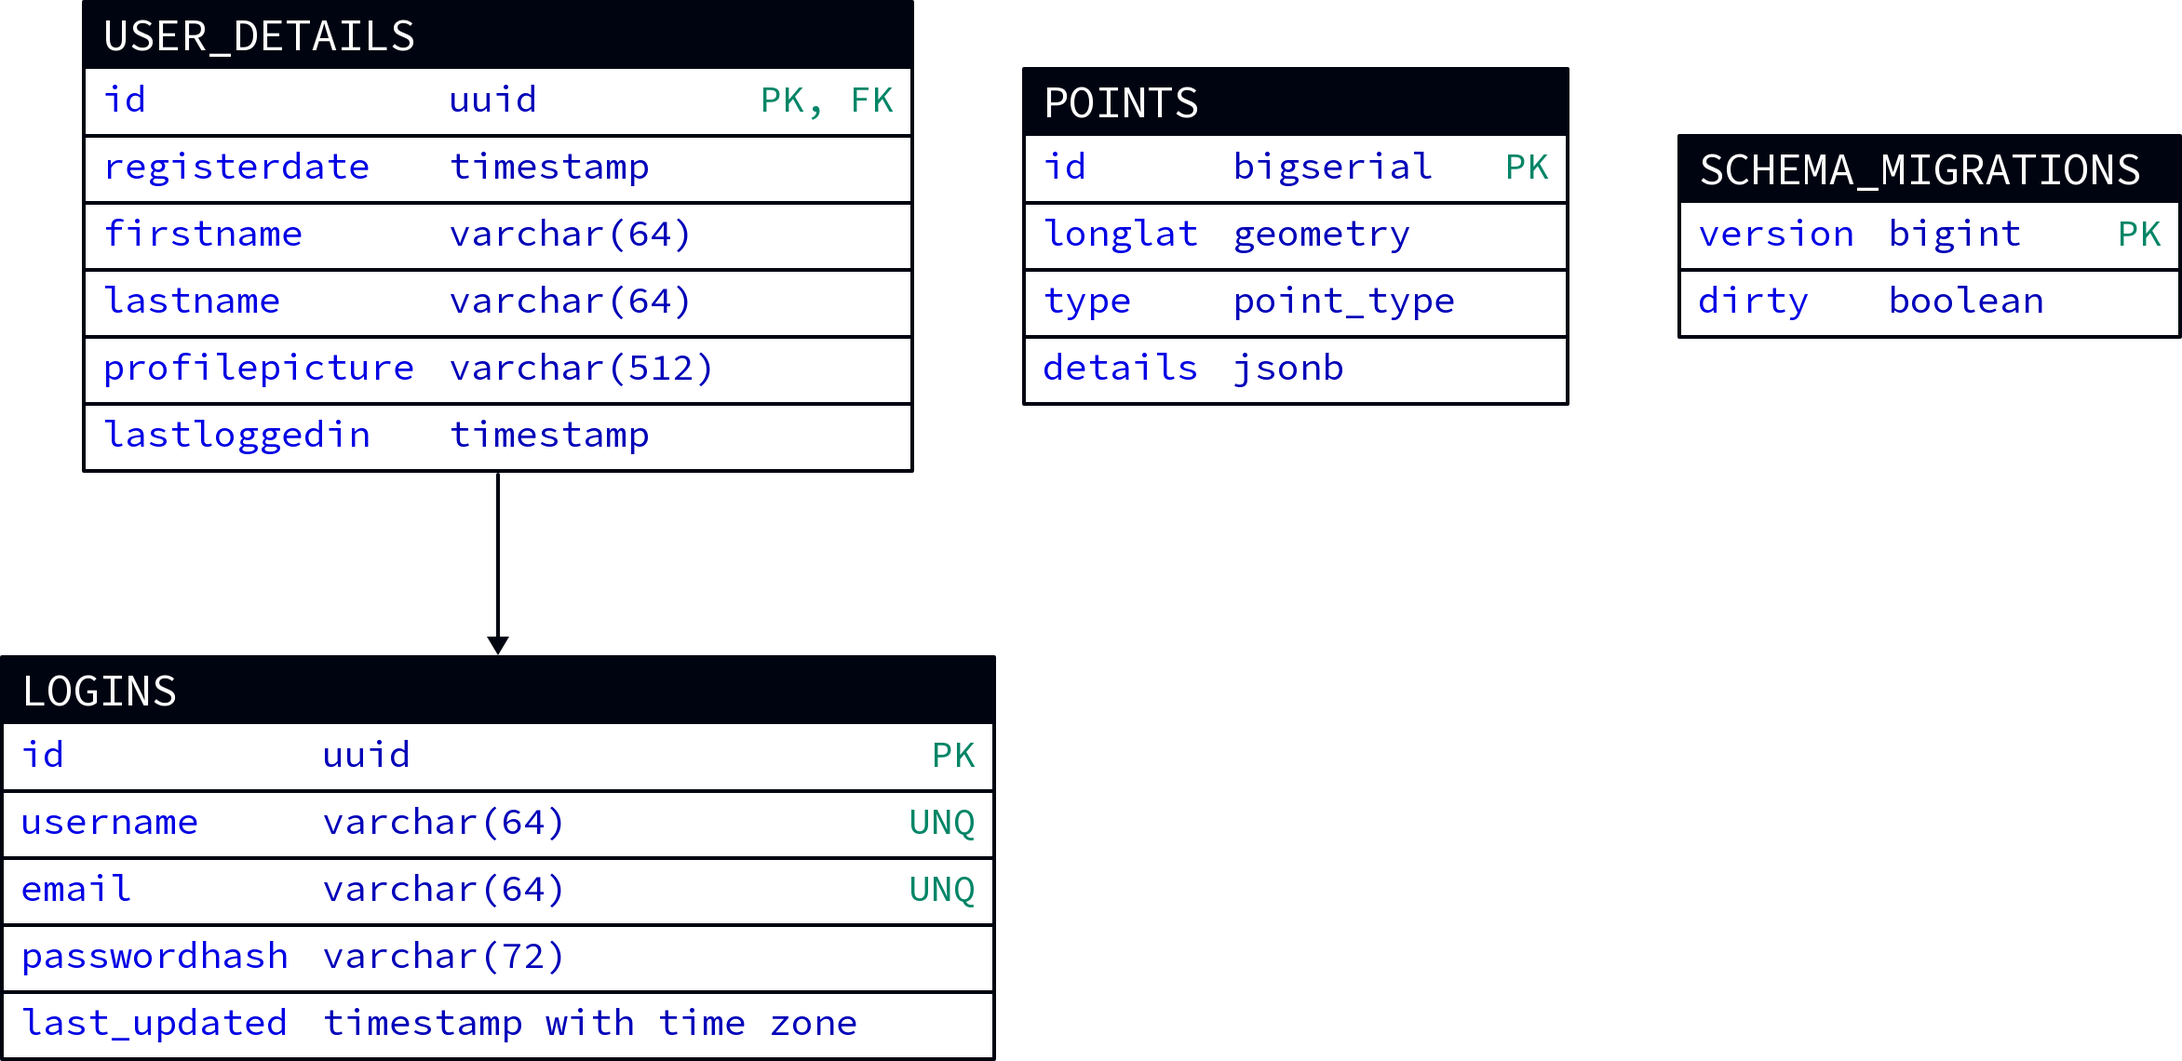
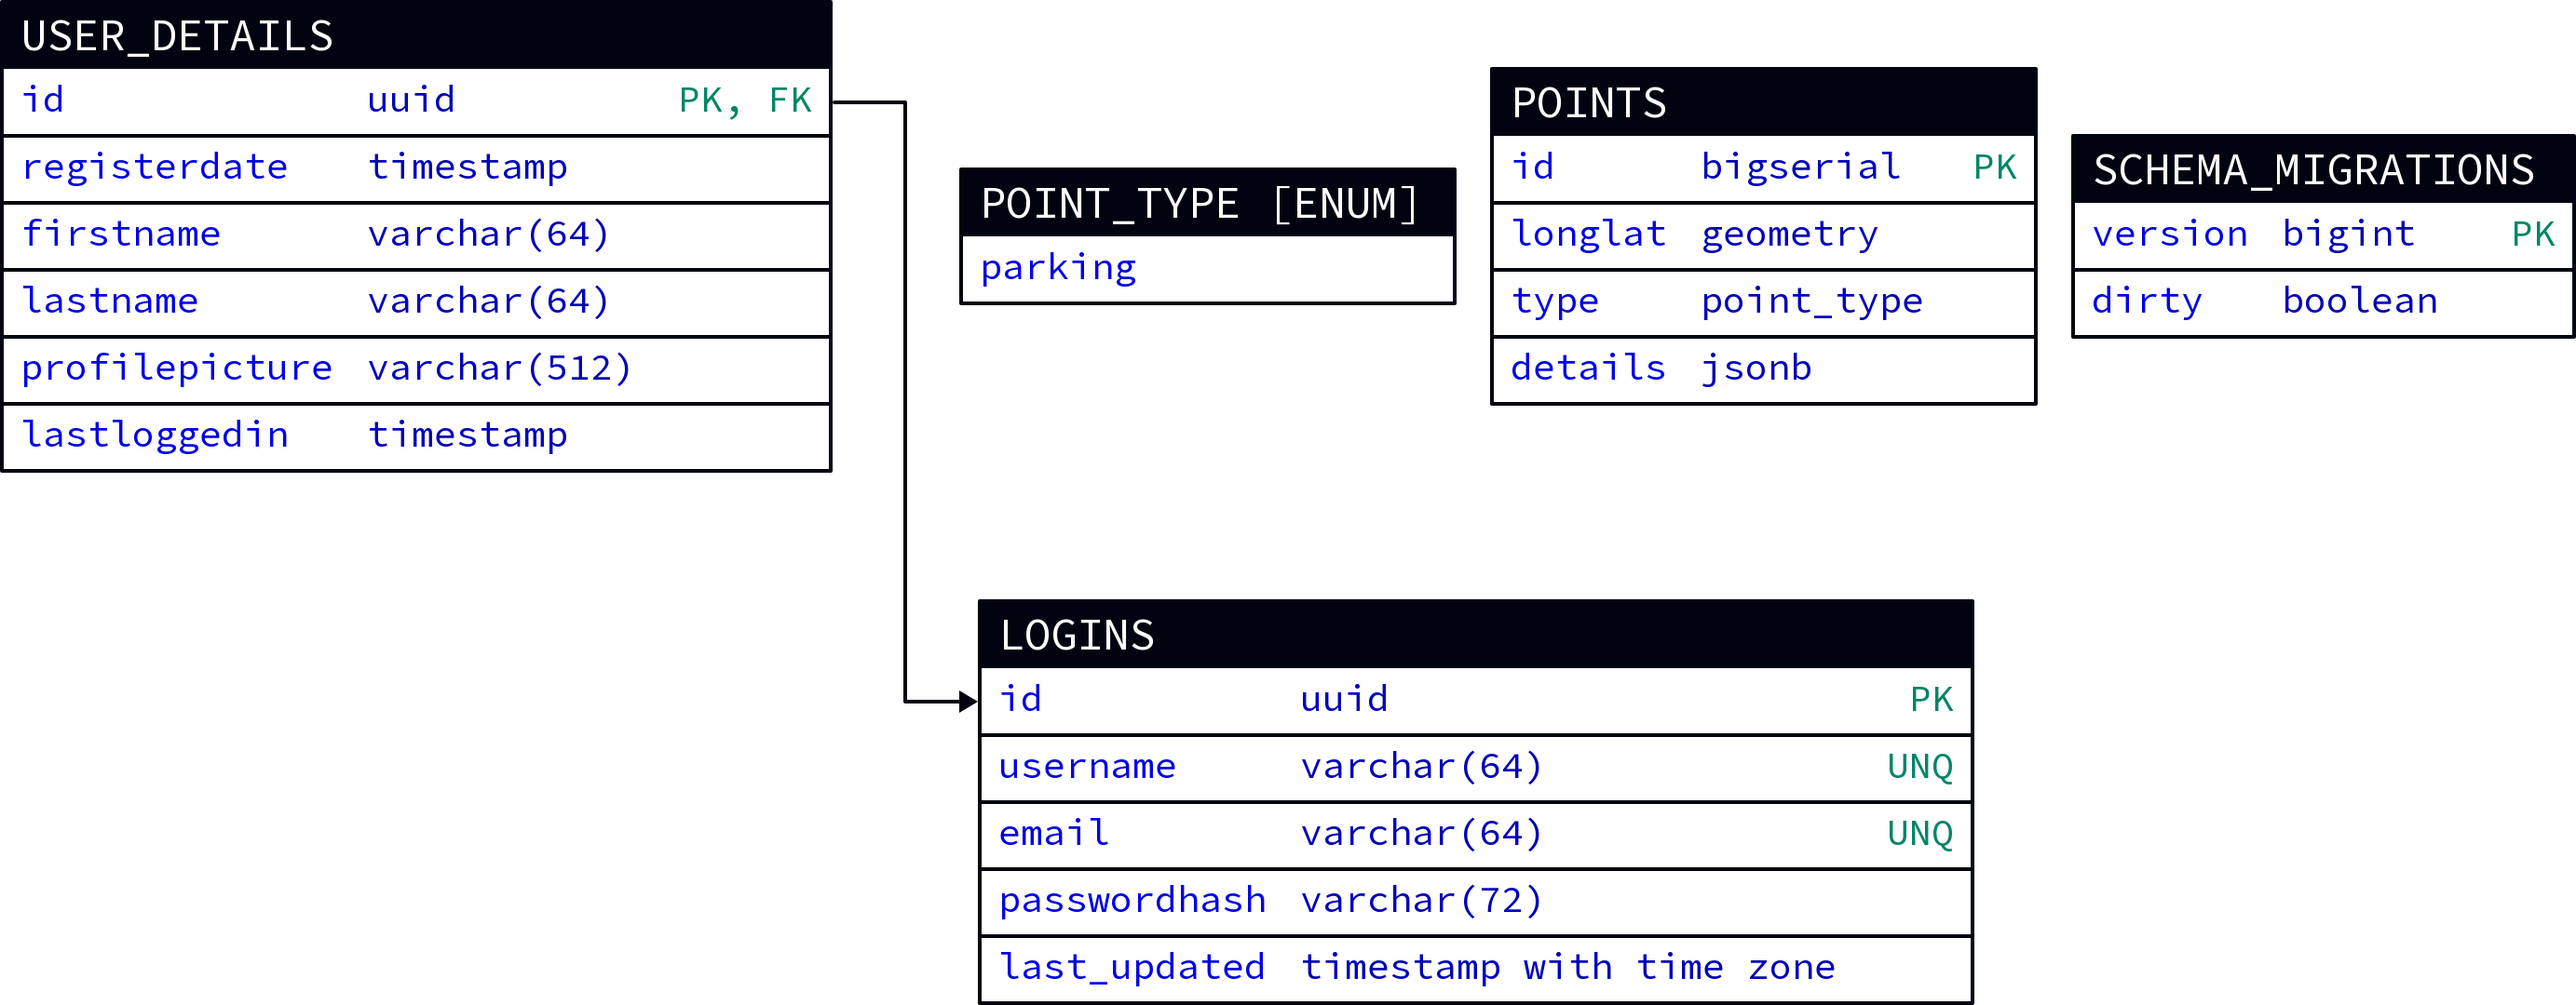
Adds section on backend routing

Changed region(s): [[0.0, 0.0, 1.0, 0.4889], [0.0, 0.5806, 0.7786, 1.0]]

diff --git a/Documentation/final-report/pages/technical_solution/backend.tex b/Documentation/final-report/pages/technical_solution/backend.tex
@@ -380,7 +380,7 @@ to revert the change that split the backend. The desired result of two distinct
 backends would have to be achieved in a different way.
 
 To accomplish this, a feature of the Go programming language called
-\textit{build-tags} was utilised. Usage examples of this feature showcase it by
+\textbf{build-tags} was utilised. Usage examples of this feature showcase it by
 creating multiple binaries that have different feature sets, for instance
 multiple different payment tiers for a single software. This was a great
 solution for this problem. It allowed for certain files to be excluded during
@@ -408,23 +408,111 @@ and included twice.
 
 \subsubsection{Database}
 \fcolorbox{orange}{orange}{Add database development}
+don't forget down migration point type enum
 
 \begin{figure}[htbp]
   \centering{}
-  \includegraphics[width=0.8\textwidth]{../d2-diagrams/database-init/database-init.png}
+  \includegraphics[width=\textwidth]{../d2-diagrams/database-init/database-init.png}
   \caption{Database Schema for the minimum viable Product}
   \label{fig:database_init_schema}
 \end{figure}
 
 \begin{figure}[htbp]
   \centering{}
-  \includegraphics[width=0.8\textwidth]{../d2-diagrams/database-final/database-final.png}
+  \includegraphics[width=\textwidth]{../d2-diagrams/database-final/database-final.png}
   \caption{Final Database Schema}
   \label{fig:database_final_schema}
 \end{figure}
 
 \subsubsection{Routing}
-\fcolorbox{orange}{orange}{Add description of net/http library routing}
+Routing the frontend's requests to the appropriate handlers was done using the
+\textbf{net/http} package, which is included in the Go standard library. The Go
+ecosystem provides a number of alternative solutions such as Gin, Gorilla or
+Fibre, which are mature and well documented frameworks for creating APIs. They
+provide many useful features, which the team acknowledged during their
+evaluation, but -- in the team's opinion -- they can also easily add a lot of
+complexity. Since the team was lacking in recent Go knowledge and didn't want to
+unnecessarily overcomplicate the project, it was decided to go with the built-in
+solution instead.
+
+To realise the API functionality, the http server function provided by the
+net/http library is configured with a \texttt{http.ServeMux} object. This is
+where the server will send all incoming requests. These are then passed to
+nested routers based on prefix routing. For example, a request for the route
+\texttt{/v1/public/auth/User/login} would follow this path: HTTP Server
+$\rightarrow$ Public Router $\rightarrow$ Public Auth Router $\rightarrow$ Auth
+handler. A full overview of the routing in the backend can be found in Figure
+\ref{fig:backend_routing}.
+
+All requests are also routed through a stack of middlewares. Some middlewares
+are active on all requests (Logging, CORS) and some are configured based on
+route (Authorisation), see Section \ref{backend_middlewares}
+(\nameref{backend_middlewares}).
+
+\begin{figure}[htbp]
+  \centering{}
+  \includegraphics[width=\textwidth]{../d2-diagrams/backend-routing/backend-routing.png}
+  \caption{Routing in the Backend: from Request to Handler}
+  \label{fig:backend_routing}
+\end{figure}
+
+\begin{listing}[htbp]
+  \begin{minted}{go}
+  func init() {
+    AddRoute(route{"/public/", public()})
+  }
+
+  func public() *http.ServeMux {
+    router := http.NewServeMux()
+    router.Handle("/points/", http.StripPrefix("/points", pointsPublic()))
+    router.Handle("/auth/", http.StripPrefix("/auth", auth()))
+    router.Handle("/history/", http.StripPrefix("/history", locationHistory()))
+    return router
+  }
+
+  func pointsPublic() *http.ServeMux {
+    router := http.NewServeMux()
+    handler := &handlers.PointsHandler{}
+
+    // Authenticated access
+    router.Handle("GET /inRadius", Authenticated(http.HandlerFunc(handler.HandleGetByRadius)))
+    router.Handle("GET /{id}", Authenticated(http.HandlerFunc(handler.HandleGetPointDetails)))
+
+    return router
+  }
+
+  func auth() *http.ServeMux {
+    router := http.NewServeMux()
+    handler := &handlers.AuthHandler{}
+
+    // Public access
+    router.Handle("POST /User/login", Public(http.HandlerFunc(handler.HandleLogin)))
+    router.Handle("POST /User/", Public(http.HandlerFunc(handler.HandlePost)))
+
+    // Protected access
+    router.Handle("GET /User/{id}", Protected(http.HandlerFunc(handler.HandleGet)))
+    router.Handle("PUT /User/{id}", Protected(http.HandlerFunc(handler.HandlePut)))
+    router.Handle("DELETE /User/{id}", Protected(http.HandlerFunc(handler.HandleDelete)))
+
+    return router
+  }
+
+  func locationHistory() *http.ServeMux {
+    router := http.NewServeMux()
+    handler := &handlers.LocationHistoryHandler{}
+
+    // Protected access
+    router.Handle("GET /{id}", Protected(http.HandlerFunc(handler.HandleGet)))
+    router.Handle("DELETE /{id}", Protected(http.HandlerFunc(handler.HandleDelete)))
+    router.Handle("POST /{id}", Protected(http.HandlerFunc(handler.HandlePost)))
+
+    return router
+  }
+
+  \end{minted}
+  \caption{An example of how routing is configured in the backend}
+  \label{listing:routing_example}
+\end{listing}
 
 \subsubsection{APIs}
 All API routes that the backends expose are listed below. This information was
@@ -597,8 +685,6 @@ for authentication of the user.
 
 \end{itemize}
 
-\fcolorbox{orange}{orange}{Add list of public API routes}
-
 \paragraph{Private API}
 The private API is used by the machine learning and data stack to insert new
 datasets into the database. Currently, all private API routes have public access
@@ -606,13 +692,6 @@ rights, as the private backend as a whole is guaranteed restricted access by the
 CoreDNS routing of the Kubernetes cluster. This allows the data stack to skip
 the authentication step, decreasing development overhead while maintaining high
 application security.
-
-\begin{figure}[htbp]
-  \centering{}
-  \includegraphics[width=0.8\textwidth]{images/dataflow_5.png}
-  \caption{Dataflow Diagram from raw Data to Frontend}
-  \label{fig:dataflow}
-\end{figure}
 
 \begin{itemize}
   \item {
@@ -676,9 +755,7 @@ application security.
   }
 \end{itemize}
 
-\fcolorbox{orange}{orange}{Add list of private API routes}
-
-\subsubsection{Middlewares}
+\subsubsection{Middlewares}\label{backend_middlewares}
 \paragraph{Authentication}
 
 \fcolorbox{orange}{orange}{Add authentication middleware features}
